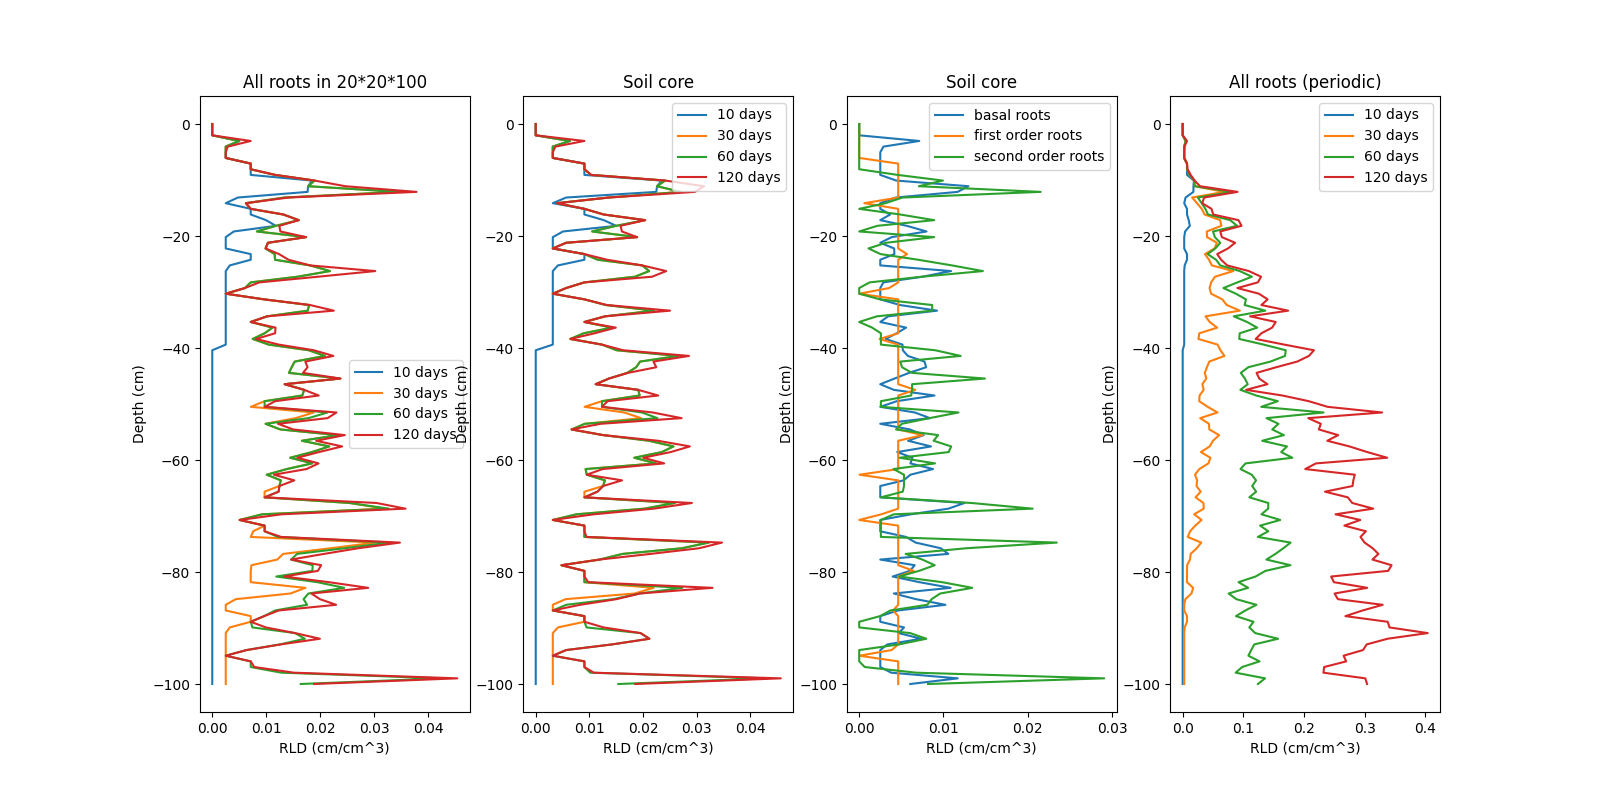
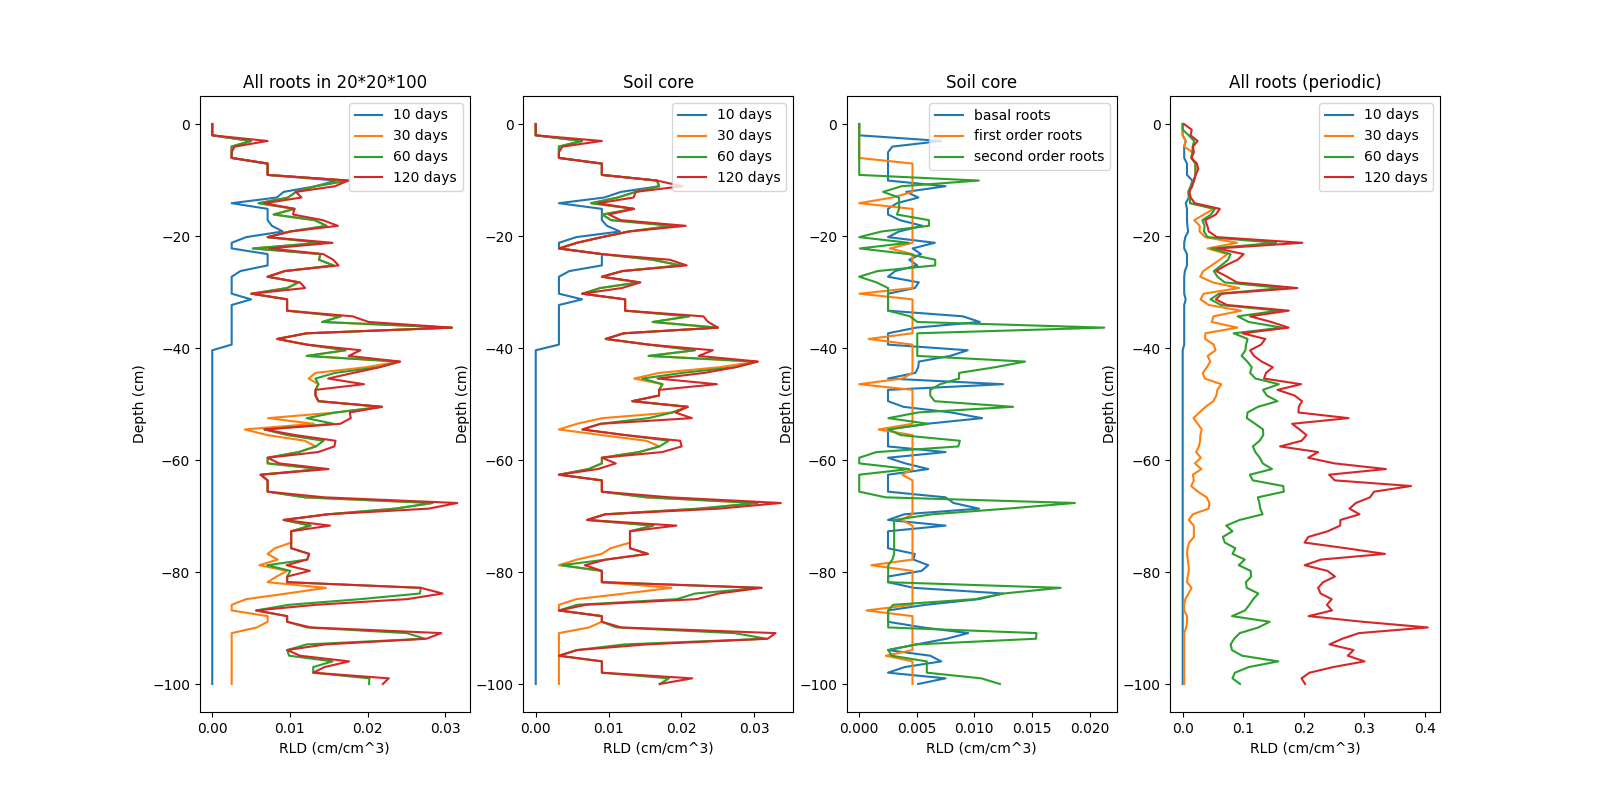
tutorial work

diff --git a/tutorial/latex/PlantBox_RootSytem/section_rootsystem.tex b/tutorial/latex/PlantBox_RootSytem/section_rootsystem.tex
@@ -1,51 +1,57 @@
 \section{The RootSystem class} \label{sec:rs}
 
-The class RootSystem is responsible for the model parameters and controls the simulation. Additionally, the class offers utility functions for post processing on a per root level, where each root is represented by polyline, e.g. a list of nodes. Post processing functions per segment can be found in the class SegmentAnalyser (see Section \ref{sec:sa}), where a segment is part of the root represented by a line connecting two nodes.
+The class RootSystem is responsible for the model parameters and controls the simulation. Additionally, the class offers utility functions for post processing on a per root level, where each root is represented by a polyline, which is represented by Python list of nodes. 
+
+Post processing functions per segment can be found in the class SegmentAnalyser (see Section \ref{sec:sa}), where a segment is part of the root represented by a line connecting two nodes.
+
+
 
 \subsection{Initialize parameters from scratch} \label{sec:from_scratch}
  
-In the previous examples we always opened the root system parameters from a file. In this example we show how to do everything in a Python script without the need of any parameter files. This is especially important if we want to modify parameters in our scripts (e.g. like it is needed for a sensitivity analysis, see Section \ref{ssec:sensitivity}).
+In the previous examples we opened the root system parameters from a xml file. In this example we show how to do everything in a Python script without the need of any parameter file. This is especially important if we want to modify parameters in our scripts (e.g. like it is needed for a sensitivity analysis, see Section \ref{ssec:sensitivity}).
 
 In order to set up a simulation by hand, we have to define all relevant model parameters. This is done by creating a RootRandomParameter object for each root type, and a SeedRandomParameter for each plant type. 
 
-Note that within the simulation, the parameters for a specific root (RootSpecificParameter) are generated from the RootRandomParameter class which represents the random distributions of certain parameters.
+Note that during the simulation, the parameters for a specific root (RootSpecificParameter) are generated from the RootRandomParameter class which represents the random distributions of certain parameters.
 
 \lstinputlisting[language=Python, caption=Example 2a]{../../examples/python/example2a_initializeparams.py}
 
 \begin{itemize}
 
 \item[11,12] Create the root type parameters of type 1 and type 2.
-\item[16-36] We set up a simple root system by hand. First we define the tap root L14-L27, then the laterals L29-L36. By default all standard deviations are 0. Most parameters standard deviations can be set with an additional 's' appended to the parameter name, e.g. las is the std of la, see L32
-\item[38,39] Set the root type parameters.
+\item[16-38] We set up a simple root system by hand. First we define the tap root L12-L26, then the laterals L28-L38. By default all standard deviations are 0. Most parameters standard deviations can be set with an additional 's' appended to the parameter name, e.g. $lmaxs$ is the standard deviation of $lmax$, see L32
+\item[40,41] Set the root type parameters.
 
-\item[32-46] Create the seed random parameter stating when basal and shoot borne roots emerge. In this example we neglect shoot borne roots, and just define the seed location and  the emergence times (in days) of the basal roots.
-\item[47] Sets the root system parameters.
+\item[43-47] Create the seed random parameter stating when basal and shoot borne roots emerge. In this example we neglect basal adn shoot borne roots, and just define the seed location and deactivate basal roots by setting their maximal number $maxB$ to 0 ($firstB$ and $delayB$ are ignored i that case). 
+\item[48] Sets the root system parameters.
 
-\item[49] We state the root types of basal and shoot borne roots. 
-Per default these types are 4 (for basal) and 5 (for shootborne). 
-If they are not set a warning is produced and the tap root type 1 is taken. 
-\item[50,51] Simulate and export results. 
+\item[53] We choose the simulation times in a way that we can see the temporal development, and that all lateral roots have emerged in the final time step.
 
-\item[57-55] It is not only possible to set all model parameter, 
-but to retrieve all parameters after the simulation with rs.getParameter. 
-For all parameters that are derived from a distribution the root specific parameters are returned (L56), 
-i.e. the values that were drawn from the normal distribution. 
-The root random parameter can be accessed by adding '\_mean', '\_dev' to the parameter value (L57).  
+\item[54-70] Within the simulation loop we create Figure \ref{fig:ip}. L58-61 defines the limits and titles. In L63 we retrieve the roots as a polylines which is a list of roots, each root represented as list of nodes.
 
-\item[56-63] Simulation results can also accessed with getParameter(), 
-which returns the parameter value per root. Especially, note the difference between la, and la\_mean
+\item[75-80] It is not only possible to set all model parameter, 
+but to retrieve the parameters after the simulation with rs.getParameter(), which returns one value per root. For all parameters that are derived from a random distribution the root specific parameter is returned (e.g. $la$, L78), i.e. the values that were drawn from the normal distribution. The root random parameter can be accessed by adding '\_mean', '\_dev' to the parameter value (e.g. $la\_mean$, L79).
 
 \end{itemize}
 
-Note that all parameters can be set and modified within Python. 
-Especially, standard deviations can be set to zero in order to be able to precisely predict the result. 
-For example we can calculate the total root system length analytically, 
-and check if the numerical simulation yield the (exact) same result. 
-This is performed in the tests withing test\_root.py, and test\_rootsystem, 
-which is used to test and validate CPlantBox and formerly CRootBox.
+Note that all parameters can be set and modified within Python. Especially, standard deviations can be set to zero in order to be able to precisely predict the result. For example we can calculate the total root system length analytically, and check if the numerical simulation yield the (exact) same result. This is performed in the tests withing test\_root.py, and test\_rootsystem, which is used to test and validate CPlantBox and formerly CRootBox.
+
+With such simple simualtions, we can quickly check if the model does, what we expect. For exmaple the maximal number of laterals of above parameters is 16 
+$= round(lmax - la - lb)/ln +  1$. We can calulate the time when the final lateral emerges as $-(lmax/r)*ln(1-(lmax-ln/2)/lmax)$ = 122.8 days. At simulation time 125 the root is 2.2 days old, and therefore approximately 4.4 cm long (initial growth rate $r_1 = 2$), which agrees with Figure \ref{fig:ip}.
+
+% comment on length of apical zone
+
+% ref comming sections
+
+\begin{figure}
+\centering
+\includegraphics[width=\textwidth]{fig_initializeparams.png}
+\caption{Root development} \label{fig:ip}
+\end{figure}
 
 
-\subsection{Root tropism parameters $N$ and $\sigma$}
+
+\subsection{Root tropism parameters $N$ and $\sigma$} \label{ssec:tropism}
 
 We show the influence parameters $N$ and $\sigma$ in the case of gravitropism. The parameter $N$ [1] denotes the strength of the tropism, and $\sigma$ [cm$^{-1}$] the flexibility of the root, i.e. the expected angular variation per cm root length. 
 
@@ -60,12 +66,11 @@ We show the influence parameters $N$ and $\sigma$ in the case of gravitropism. T
 
 \item[25-28] The loop runs over the parameters we want to modify. We create a subplot for each configuration, and start with a new root system by calling reset in L28.
 
-\item[L30-34] We set the parameters (L30,L31) and do the simulation (L33,L34)
+\item[30-34] We set the parameters (L30,L31) and do the simulation (L33,L34)
 
 \item[36-44] Matplotlib is used for visualization (looping over the segments is rather slow). L36 gives a list of all nodes, and L37 of all segments as two node indices. Therefore, each segment starting node n1 and end node n2, as defined in L39.
 
 \item[L48] Creates Figure \ref{fig:tropism}.
-
 \end{itemize}
 
 In the first column of Figure \ref{fig:tropism} nothing happens, because if the root has no flexibility to bend ($\sigma$=0), the strength has no influence on the resulting root system. 
@@ -76,20 +81,30 @@ The other subplots show different shapes of the root system. We normally derive 
 
 \begin{figure}
 \centering
-\includegraphics[width=0.7\textwidth]{fig_gravitropism.png}
-\caption{Influence of $N$ and $\sigma$ in case of gravitropism (Example 2b) } \label{fig:tropism}
+\includegraphics[width=\textwidth]{fig_gravitropism.png}
+\caption{Influence of $N$ and $\sigma$ in case of gravitropism} \label{fig:tropism}
 \end{figure}
 
 
 
 
-\subsection{Inter lateral spacing ($ln$, $lnk$)}
+\subsection{Inter lateral spacing ($ln$, $lnk$)} \label{ssec:spacing}
 
 A single root is divided in the basal zone, the root branching zone, and the root apical zone. Basal and apical zone are given by the parameters $la$, and $lb$ with standard deviations $la_s$ and $lb_s$. 
 
 The root branching zone can be calculated form the maximal root length $lmax$
 
+\lstinputlisting[language=Python, caption=Example 2c]{../../examples/python/example2c_lateralspacing.py}
 
+\begin{itemize}
+\item[10-13] TODO
+\end{itemize}
+
+\begin{figure}
+\centering
+\includegraphics[width=0.99\textwidth]{fig_lateralspacing.png}
+\caption{Inter-lateral spacing, larger near base (left column), constant (mid column), and smaller near base (right column) } \label{fig:spacing}
+\end{figure}
 
 
 

diff --git a/tutorial/latex/PlantBox_RootSytem/section_basic.tex b/tutorial/latex/PlantBox_RootSytem/section_basic.tex
@@ -106,8 +106,7 @@ however, set operations are not really performed, only the involved geometries a
 
 \end{itemize}
 
-% TODO describe the creation of hte paraview plots in detail...
-
+% TODO describe the creation of the paraview plots in detail...
 
 \begin{figure}
 \begin{subfigure}[c]{0.3\textwidth}
@@ -122,7 +121,7 @@ however, set operations are not really performed, only the involved geometries a
 \includegraphics[width=0.99\textwidth]{example_2a3.png}
 \subcaption{Rhizotubes} \label{fig:rhizotubes}
 \end{subfigure}
-\caption{Different geometries described by SDF (Example 1c)}
+\caption{Different geometries described by SDF}
 \end{figure}
 
 \subsection{Multiple root systems}
@@ -150,5 +149,5 @@ If we consider only one plant type we often simplify plot scale simulations to a
 \begin{figure}
 \centering
 \includegraphics[width=0.7\textwidth]{example_2b.png}
-\caption{Multiple root systems (Example 1d), colors denote the creation time of the root segments} \label{fig:multiple}
+\caption{Multiple root systems, colors denote the creation time of the root segments} \label{fig:multiple}
 \end{figure}

diff --git a/tutorial/examples/python/example3a_density.py b/tutorial/examples/python/example3a_density.py
@@ -6,7 +6,7 @@ import numpy as np
 import matplotlib.pyplot as plt
 
 path = "../../../modelparameter/rootsystem/"
-name = "Brassica_napus_a_Leitner_2010" # "Crypsis_aculeata_Clausnitzer_1994"
+name = "Brassica_napus_a_Leitner_2010"  # "Crypsis_aculeata_Clausnitzer_1994"
 
 rs = pb.RootSystem()
 rs.readParameters(path + name + ".xml")
@@ -24,8 +24,8 @@ for i in range(0, runs):
 
 soilvolume = (depth / layers) * 10 * 10
 rl_ = np.array(rl_) / soilvolume  # convert to density
-rl_mean = np.mean(rl_, axis = 0)
-rl_err = np.std(rl_, axis = 0) / np.sqrt(runs)
+rl_mean = np.mean(rl_, axis=0)
+rl_err = np.std(rl_, axis=0) / np.sqrt(runs)
 
 z_ = np.linspace(0, -depth, layers)  # z - axis
 plt.plot(rl_mean, z_, "b")
@@ -35,5 +35,5 @@ plt.plot(rl_mean - rl_err, z_, "b:")
 plt.xlabel("root surface (cm^2 / cm^3)")
 plt.ylabel("z-coordinate (cm)")
 plt.legend(["mean value (" + str(runs) + " runs)", "error"])
-plt.savefig("results/example_3c.png")
+plt.savefig("results/example_3a.png")
 plt.show()

diff --git a/tutorial/examples/python/example2a_initializeparams.py b/tutorial/examples/python/example2a_initializeparams.py
@@ -29,7 +29,7 @@ p1.name = "lateral"
 p1.a = 0.1  # [cm] radius
 p1.subType = 2  # [1] index starts at 1
 p1.lmax = 15  # # [cm] apical zone
-p1.lmaxs = 0.15  # [cm] standard deviation of the apical zone, 10%ce
+p1.lmaxs = 0.15  # [cm] standard deviation of the apical zone
 p1.theta = 90. / 180.*np.pi  # [rad] 
 p1.r = 2  # initial growth rate
 p1.dx = 1  # [cm] axial resolution
@@ -50,7 +50,7 @@ rs.setRootSystemParameter(srp)
 rs.initialize()
 
 fig, axes = plt.subplots(1, 3, figsize=(15, 7))
-simtimes = [0, 30, 60, 125]  # the last will emerge at -(lmax/r)*ln(1-(lmax-ln/2)/r) = 122.8 
+simtimes = [0, 30, 60, 125]  # the last lateral will emerge at 
 for i in range(0, 3):
 
     rs.simulate(np.diff(simtimes)[i])  #  [day]

diff --git a/tutorial/examples/python/example3b_sdfanalysis.py b/tutorial/examples/python/example3b_sdfanalysis.py
@@ -26,7 +26,7 @@ soilcolumn2 = pb.SDF_RotateTranslate(soilcolumn, 0, 0, pb.Vector3d(12, 0, 0))  #
 geom = soilcolumn
 
 z_ = np.linspace(0, -1 * depth, layers)
-fig, axes = plt.subplots(nrows = 1, ncols = 4, figsize = (16, 8))
+fig, axes = plt.subplots(nrows=1, ncols=4, figsize=(16, 8))
 for a in axes:
     a.set_xlabel('RLD (cm/cm^3)')  # layer size is 1 cm
     a.set_ylabel('Depth (cm)')
@@ -111,5 +111,5 @@ axes[3].plot(np.array(rl0_) / layerVolume, z_)
 axes[3].legend(["10 days", "30 days", "60 days", "120 days"])
 
 fig.subplots_adjust()
-plt.savefig("results/example_3d.png")
+plt.savefig("results/example_3b.png")
 plt.show()

diff --git a/tutorial/examples/python/example2f_sensitivity.py b/tutorial/examples/python/example2f_sensitivity.py
@@ -9,9 +9,10 @@ import numpy as np
 import matplotlib.pyplot as plt
 
 
-# sets all standard deviation to value*s
+# sets all standard deviation to a percantage, i.e. value*s
 def set_all_sd(rs, s):
     for p in rs.getRootRandomParameter():
+        p.lmaxs = p.lmaxs * s
         p.lbs = p.lb * s
         p.las = p.la * s
         p.lns = p.ln * s
@@ -80,5 +81,5 @@ axes[1].set_ylabel('Mean tip radial distance (cm)')
 axes[0].plot(theta0_, depth_)
 axes[1].plot(theta0_, rad_dist_)
 fig.subplots_adjust()
-plt.savefig("results/example_4b.png")
+plt.savefig("results/example_2f.png")
 plt.show()

diff --git a/tutorial/examples/python/example3e_animation.py b/tutorial/examples/python/example3e_animation.py
@@ -18,13 +18,13 @@ rs.simulate(60)  # days
 
 # Export results as segments
 ana = pb.SegmentAnalyser(rs)
-ana.write("results/example_4c.vtp")
+ana.write("results/example_3e.vtp")
 
 ana.mapPeriodic(20, 15)
-ana.write("results/example_4c_periodic.vtp")
+ana.write("results/example_3e_periodic.vtp")
 
 # Export geometry as Paraview Python script
 box = pb.SDF_PlantBox(20, 15, 35)
 rs.setGeometry(box)
-rs.write("results/example_4c_periodic.py")
+rs.write("results/example_3e_periodic.py")
 

diff --git a/tutorial/examples/python/example2c_lateralspacing.py b/tutorial/examples/python/example2c_lateralspacing.py
@@ -23,8 +23,7 @@ p0.name, p0.subType, p0.lmax, p0.r, p0.dx, p0.theta = "taproot", 1, 50., 2., dx0
 p0.tropismT, p0.tropismN, p0.tropismS = pb.TropismType.gravi, 2, 0.1 
 p0.successor, p0.successorP = [2], [1.]  # set up successors
 p0.lns = 0.  # test with other values...
-p0.lb = 2  
-p0.la = 5   
+p0.lb, p0.la = 0., 0.   
 rs.setOrganRandomParameter(p0) 
 
 p1 = pb.RootRandomParameter(rs)

diff --git a/tutorial/examples/python/example2e_roottips.py b/tutorial/examples/python/example2e_roottips.py
@@ -37,7 +37,7 @@ plt.ylabel("cm")
 plt.scatter(nodes[baseI, 0], nodes[baseI, 1], c="g", label="root bases")
 plt.scatter(nodes[tipI, 0], nodes[tipI, 1], c="r", label="root tips")
 plt.legend()
-plt.savefig("results/example_2c.png")
+plt.savefig("results/example_2e.png")
 plt.show()
 
  # check if the two approaches yield the same result

diff --git a/tutorial/examples/python/example2d_length.py b/tutorial/examples/python/example2d_length.py
@@ -34,5 +34,5 @@ plt.plot(t_, v_, t_, v1_, t_, v2_, t_, v3_)
 plt.xlabel("time (days)")
 plt.ylabel(stype + " (cm)")
 plt.legend(["total", "tap root", "lateral", "2. order lateral"])
-plt.savefig("results/example_2b.png")
+plt.savefig("results/example_2d.png")
 plt.show()

diff --git a/tutorial/latex/PlantBox_RootSytem/tutorial.tex b/tutorial/latex/PlantBox_RootSytem/tutorial.tex
@@ -40,8 +40,7 @@
 }
  
 \lstset{style=mystyle}
-
-
+ 
 
 
 \begin{document}
